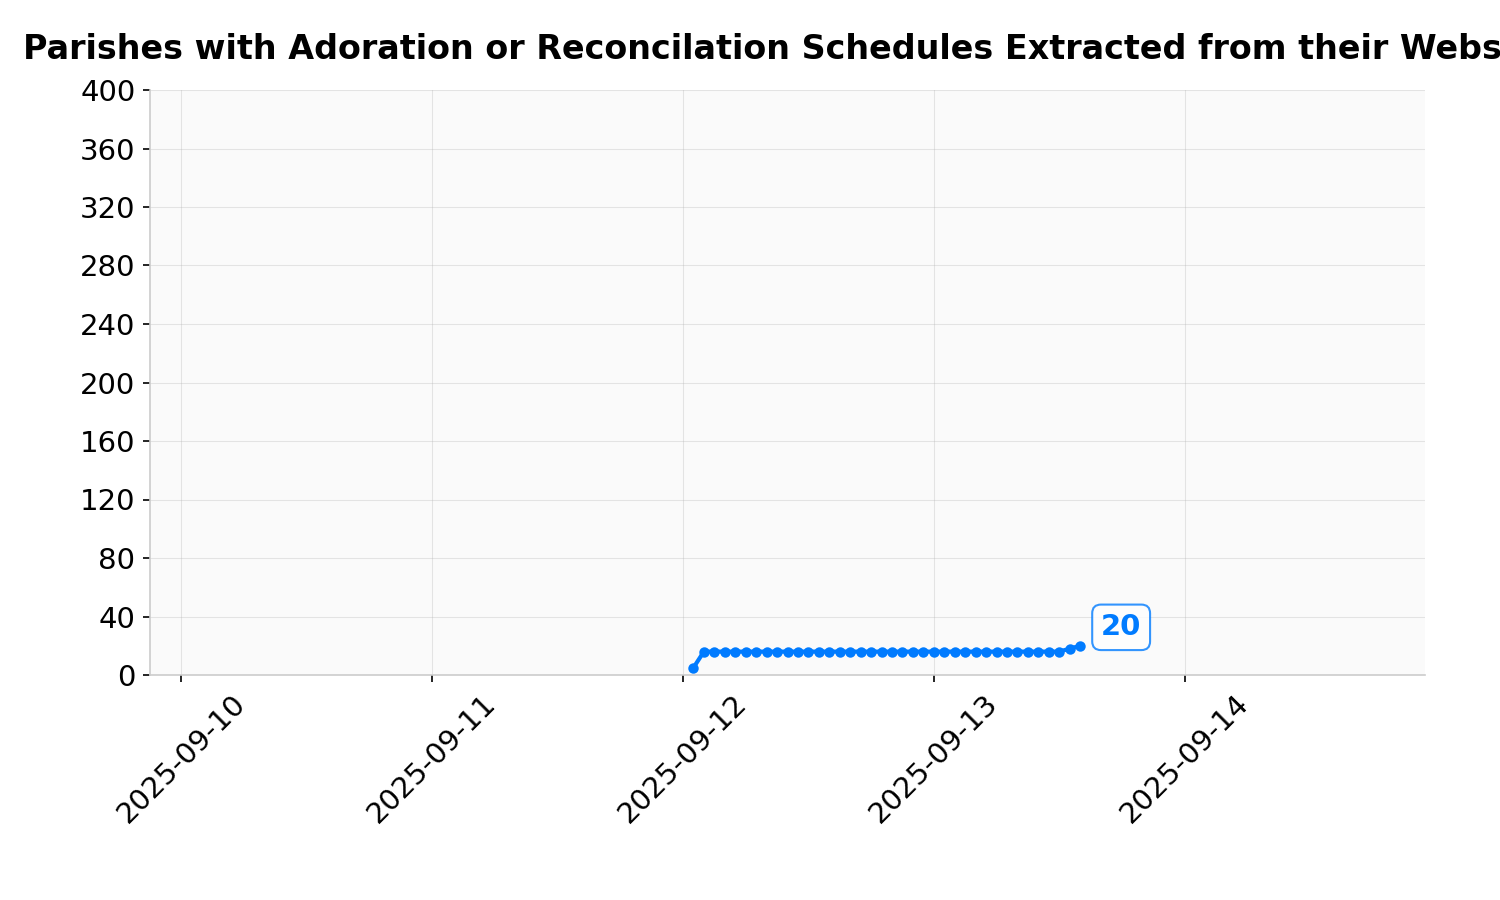
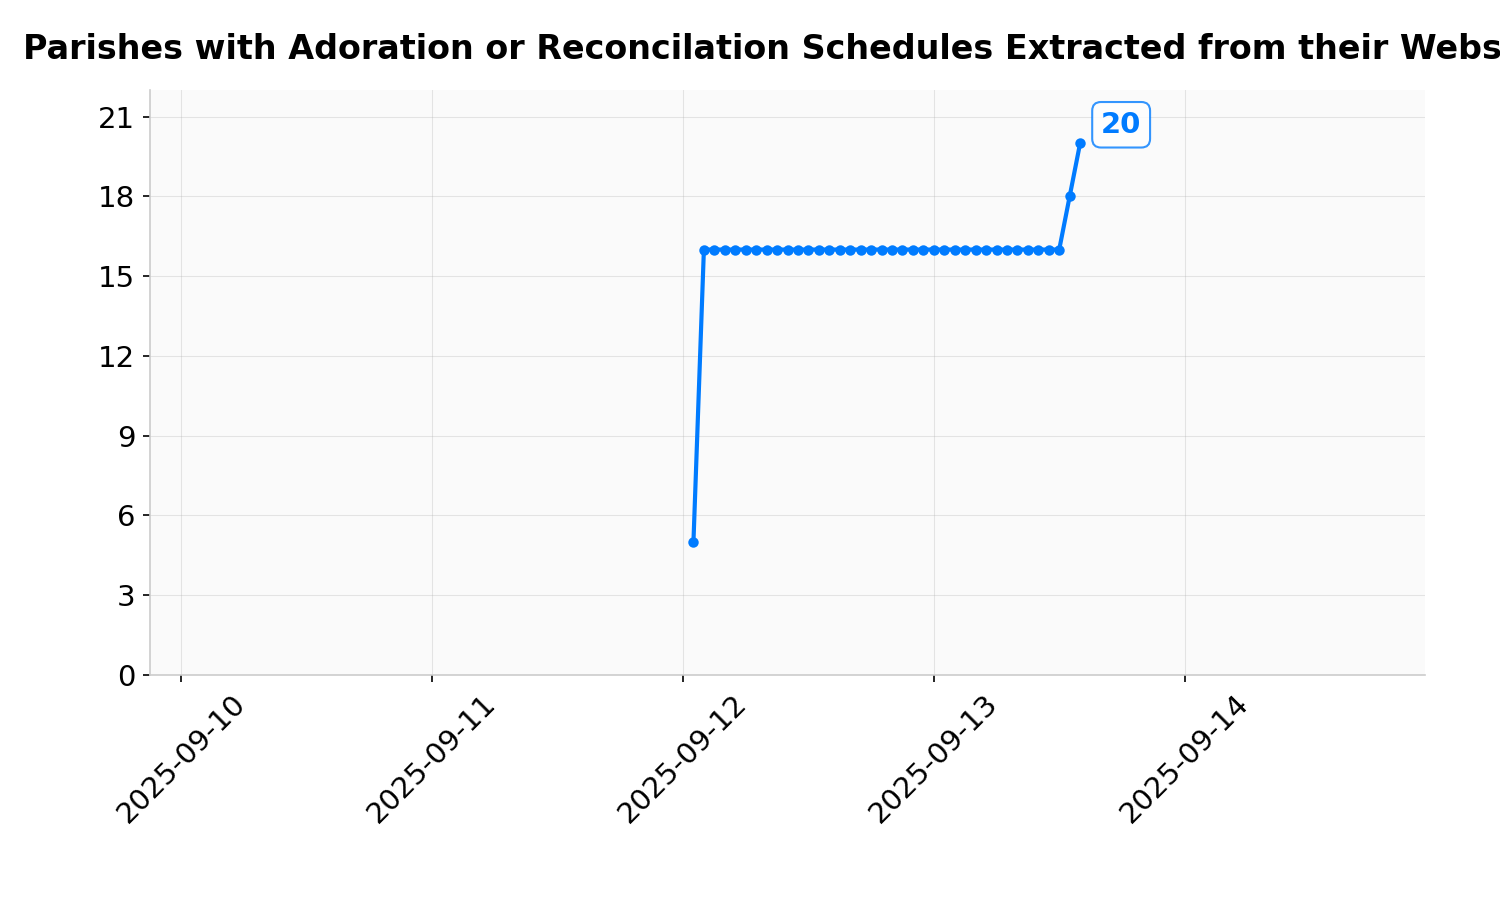
FIX: Dynamically scale y-axis for Parish Data charts in reports

diff --git a/report_statistics.py b/report_statistics.py
@@ -201,14 +201,27 @@ def main():
     if global_max_date:
         global_max_date += timedelta(days=1)
 
-    # Calculate max values for y-axis alignment
-    # Top charts: Dioceses (196) and DiocesesParishDirectory (167) -> max 200
-    # Bottom charts: Parishes (383) and ParishData (20) -> max 400
+    # Calculate max values for y-axis alignment dynamically
+    max_parishes_count = 0
+    max_parishdata_count = 0
+
+    for table_name, time_series_data in all_time_series_data.items():
+        for col_name, df_ts in time_series_data.items():
+            if not df_ts.empty:
+                if table_name == 'Parishes':
+                    max_parishes_count = max(max_parishes_count, df_ts['count'].max())
+                elif table_name == 'ParishData':
+                    max_parishdata_count = max(max_parishdata_count, df_ts['count'].max())
+
+    # Add a buffer to the max values
+    y_max_parishes = max_parishes_count * 1.1 if max_parishes_count > 0 else 100 # 10% buffer, min 100
+    y_max_parishdata = max_parishdata_count * 1.1 if max_parishdata_count > 0 else 100 # 10% buffer, min 100
+
     y_max_limits = {
-        'Dioceses': 200,
-        'DiocesesParishDirectory': 200,
-        'Parishes': 400,
-        'ParishData': 400
+        'Dioceses': 200, # These can remain static or be made dynamic if needed
+        'DiocesesParishDirectory': 200, # These can remain static or be made dynamic if needed
+        'Parishes': y_max_parishes,
+        'ParishData': y_max_parishdata
     }
 
     for table_name, time_series_data in all_time_series_data.items():
